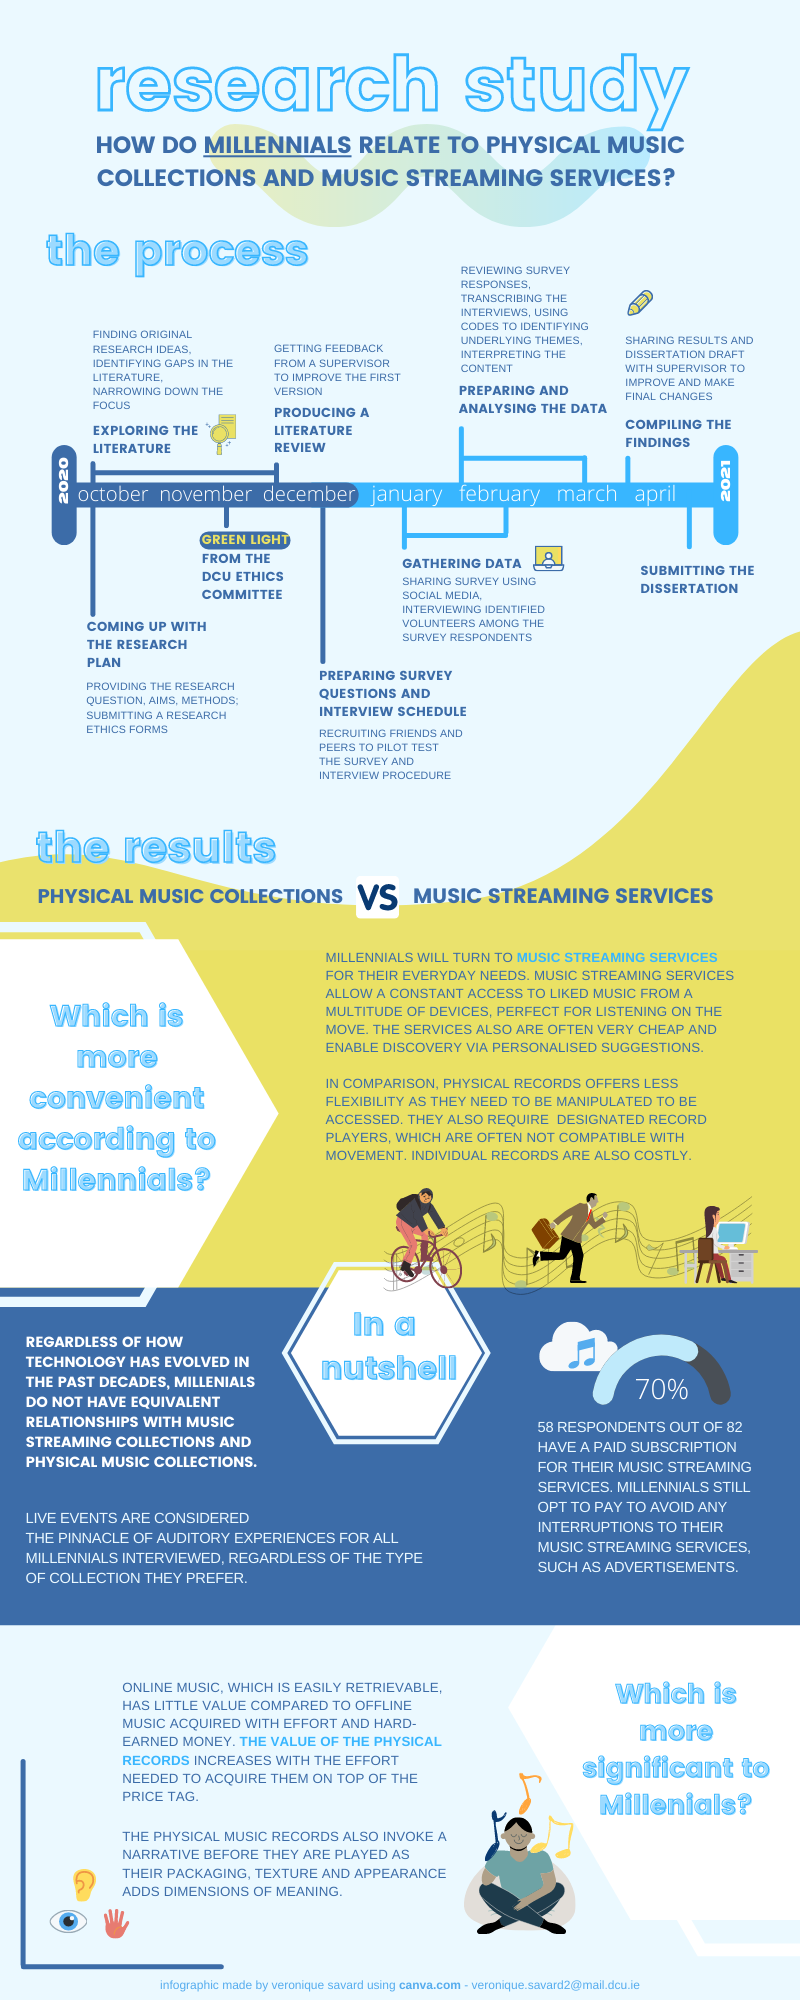
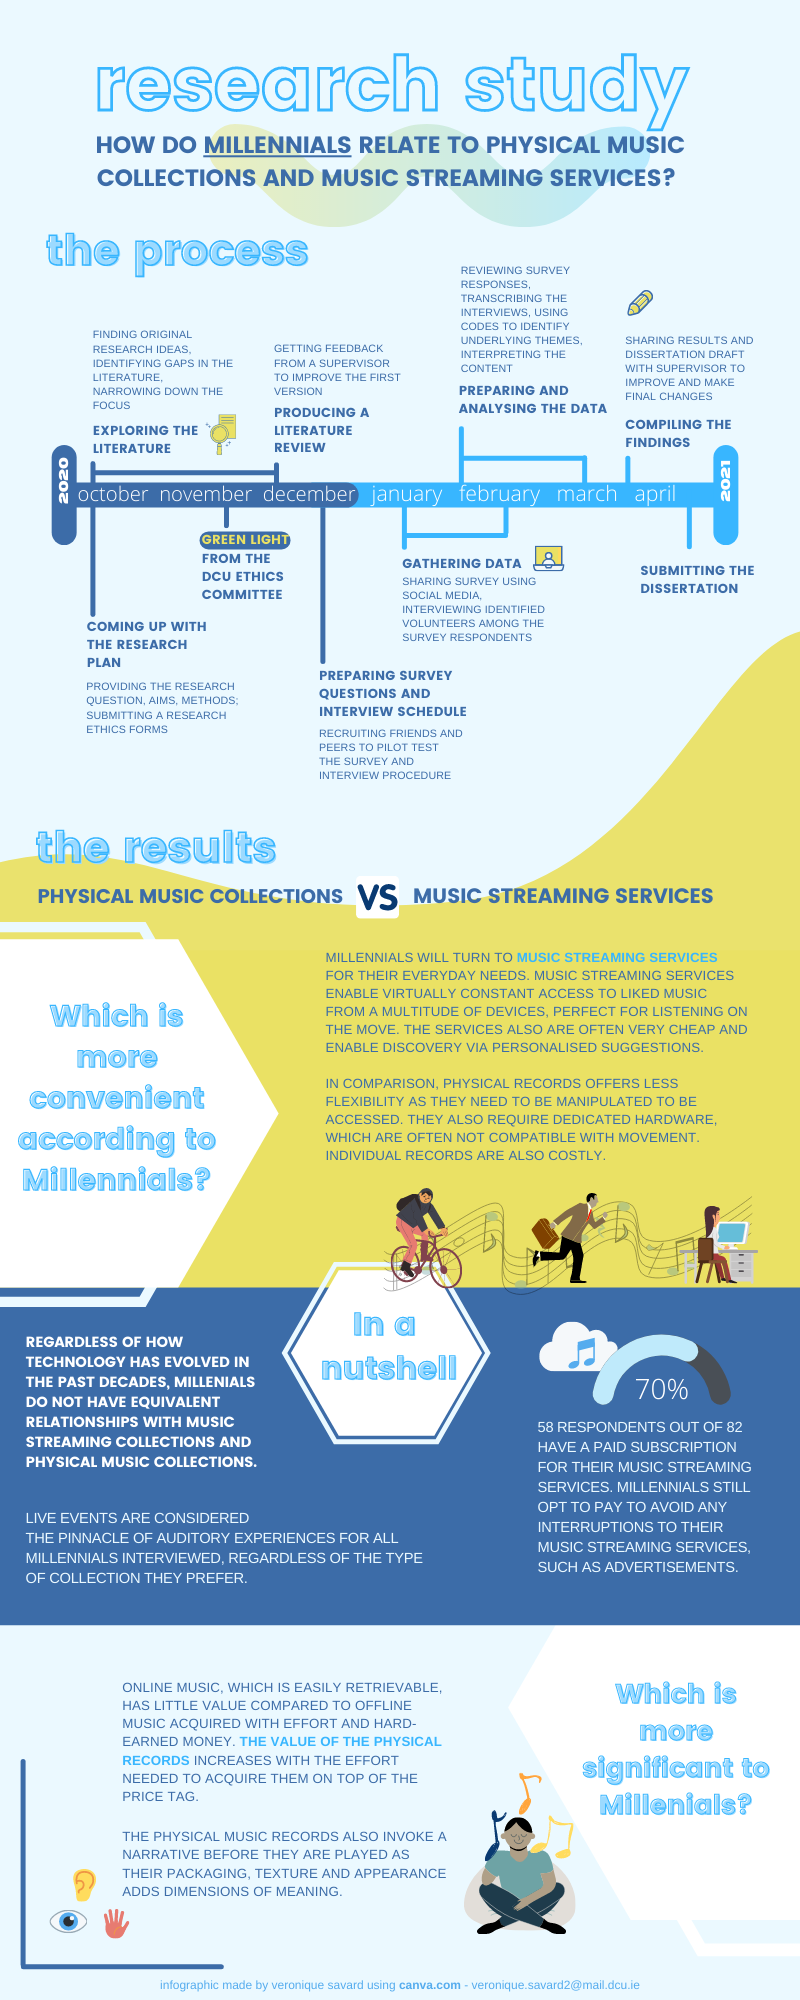
inforgraphic and bibliography

Changed region(s): [[0.4062, 0.496, 0.9375, 0.527], [0.4062, 0.558, 0.875, 0.589]]

diff --git a/content/april/2021-04-23-bibliography.md b/content/april/2021-04-23-bibliography.md
@@ -1,0 +1,163 @@
+---
+date: 2021-04-23
+title: "Bibliography"
+cover: "https://unsplash.it/1152/300/?random?SuperLong"
+categories: 
+    - Dissertation
+tags:
+    - draft
+---
+
+# Bibliography
+
+Attride-Stirling, J. (2001) &#39;Thematic networks: An analytic tool for qualitative research&#39;. _Qualitative Research_, 1(3), 385-405.
+
+Azam, R., Danish, M. and Akbar, S. (2012) &#39;Consumption Style among Young Adults toward Their Shopping Behavior: An Empirical Study in Pakistan&#39;. _Business and Management Research_, _1_. Available at: https://doi.org/10.5430/bmr.v1n4p109 (Accessed: 1 April 2021)
+
+Barbour, R.(2014) Analysis: Processing, Coding and Interrogating Data. In: _Introducing Qualitative Research: A Student&#39;s Guide_, Second Edition ed. 55 City Road, London: SAGE Publications, Inc. pp. 255-274. Available at: http://www.doi.org/10.4135/9781526485045 (Accessed: 21 March 2021)
+
+Baskerville, R. (2011) &#39;Individual information systems as research&#39;. European Journal of Information Systems. Vo. 20: pp.251-254.
+
+Beagrie, N. (2006) &#39;Digital Curation for Science, Digital Libraries, and Individuals&#39;. International Journal of Digital Curation, 1. Pp. 3-16. ISSN 17468256, 1. Available at: https://doi.org/10.2218/ijdc.v1i1.2 (Accessed: 22 March 2021)
+
+Belk, R. W. (1988) &#39;Possessions and the Extended Self&#39;. _Journal of Consumer Research_, 15(2), pp.139-168.
+
+Bell, D.S. (2009), &quot;The Sage Encyclopedia of Qualitative Research Methods&quot;, Reference Reviews, Vol. 23 No. 8, pp. 24-25. https://doi.org/10.1108/09504120911003302
+
+Bell, J. and Waters, S (2014) _Doing Your Research Project: A Guide for First-Time Researchers._ McGraw-Hill Education, Milton Keynes. Available at: ProQuest Ebook Central. (Accessed: 2 November 2020)
+
+Bigi, A., Corvi, E. and G., N. (2007) &#39;The European Millennials Versus the U.S. Millennials: Similarities and Differences&#39;. _Business Management Department, Brescia University, n. 68_.
+
+Braun, V. and Clarke, V. (2006) Using thematic analysis in psychology. _Qualitative Research in Psychology, 3_(2), pp.77–101. Available at: https://doi.org/10.1191/1478088706qp063oa(Accessed: 2 November 2020)
+
+Brown, B. and Sellen, A. (2006) &#39;Sharing and Listening to Music&#39;. In K. O&#39;Hara and B. Brown, eds., _Consuming Music Together: Social and Collaborative Aspects of Music Consumption Technologies_. Springer-Verlag, Berlin/Heidelberg, pp.37–56.
+
+Carroll, J. and Reich, B. H. (2017) Technology Portfolios: How Individuals Manage Multiple Digital Technologies. _SIGMIS Database_, _48_(1), 75–92. Available at: https://doi.org/10.1145/3051473.3051478 (Accessed: 29 March 2021)
+
+Cheng, Z.et al.. (2017) &#39;Exploring user-specific information in music retrieval&#39;. _SIGIR 2017 - Proceedings of the 40th International ACM SIGIR Conference on Research and Development in Information Retrieval_, pp.655–664. Available at: https://doi.org/10.1145/3077136.3080772 (Accessed: 2 March 2021)
+
+Csikszentmihalyi, M. and Rochberg-Halton, E. (1981) _The Meaning of Things: Domestic Symbols and the Self_. Cambridge: Cambridge University Press. (n.d.)
+
+Cockrill, A., Sullivan, M. and Norbury, H. L. (2011) Music consumption: Lifestyle choice or addiction. _Journal of Retailing and Consumer Services_, _18_(2), 160–166. Available at: https://doi.org/https://doi.org/10.1016/j.jretconser.2010.12.003 (Accessed: 2 March 2021)
+
+Danckwerts, S. and Kenning, P. (2019) &#39;It&#39;s MY Service, it&#39;s MY Music&#39;: The role of psychological ownership in music streaming consumption. _Psychology &amp; Marketing_, _36_(9), 803–816. Available at:https://doi.org/https://doi.org/10.1002/mar.21213 (Accessed: 9 February 2021)
+
+Fereday, J. and Muir-Cochrane, E. (2006) Demonstrating rigor using thematic analysis: A hybrid approach of inductive and deductive coding and theme development. _International Journal of Qualitative Methods_, 5(1), 1-11
+
+Giles, D. C., Pietrzykowski, S. and Clark, K. E. (2007) The psychological meaning of personal record collections and the impact of changing technological forms. _Journal of Economic Psychology_, _28_(4), 429–443. Available at: https://doi.org/https://doi.org/10.1016/j.joep.2006.08.002 (Accessed: 11 February 2021)
+
+Golsteijn, C., Van Den Hoven, E., Frohlich, D. and Sellen, A. (2012) &#39;Towards a more cherishable digital object&#39;. _Proceedings of the Designing Interactive Systems Conference_ DIS &#39;12, 655–664. Available at: https://doi.org/10.1145/2317956.2318054 (Accessed: 2 November 2020)
+
+Guerzoni, M. and Nuccio, M. (2014) Music consumption at the dawn of the music industry: the rise of a cultural fad. _Journal of Cultural Economics_, _38_(2), 145–171. Available at: https://doi.org/10.1007/s10824-013-9205-y (Accessed: 21 February 2021)
+
+Greengard, S.(2012) &#39;Digitally possessed&#39;. _Communications of the ACM 55_ (5), pp.14–16. Available at: https://doi.org/10.1145/2160718.2160725 (Accessed: 10 February 2021)
+
+Hagen, A. N. (2015) The Playlist Experience: Personal Playlists in Music Streaming Services. _Popular Music and Society_, _38_(5), pp.625–645. Available at: https://doi.org/10.1080/03007766.2015.1021174 (Accessed: 11 February 2021)
+
+Hartman, J. L. and McCambridge, J. (2011) &#39;Optimizing Millennials&#39; Communication Styles&#39;, _Business Communication Quarterly_, 74(1), pp. 22–44. doi: 10.1177/1080569910395564.
+
+Holbrook, M. B. (2000) The Millennial Consumer in the Texts of Our Times: Experience and Entertainment. Journal of Macromarketing, 20(2), pp. 178–192. Available at: http://doi.org/10.1177/0276146700202008 (Accessed: 19 December 2020)
+
+Hupfeld, A., Sellen, A., O&#39;Hara, K., &amp; Rodden, T. (2013) _Leisure-Based Reading and the Place of E-Books in Everyday Life_ (Vol. 8118). Available at: https://doi.org/10.1007/978-3-642-40480-1\_1 (Accessed: 11 February 2021)
+
+Ito, M. et al. (2009) _Hanging Out, Messing Around, Geeking Out: Living and Learning with New Media_. The MIT Press. pp. 464.
+
+Iqbal, M. (2020)_Spotify Usage And Revenue Statistics (2020)_ Business of Apps. Available at: https://www.businessofapps.com/data/spotify-statistics (Accessed: 30 November 2021)
+
+Jung, H. et al. (2011) &#39;How Deep Is Your Love: Deep Narratives of Ensoulment and Heirloom Status&#39;. _International Journal of Design_ 5(1), pp.59-71. Available at: [http://www.ijdesign.org/index.php/IJDesign/article/view/854/329](http://www.ijdesign.org/index.php/IJDesign/article/view/854/329) (Accessed: 3 November 2020)
+
+Kibby, M. (2009) COLLECT YOURSELF. _Information, Communication &amp; Society_, _12_(3), 428–443. Available at: https://doi.org/10.1080/13691180802660644
+
+Kirk, D. S. and Sellen, A. (2010) &#39;On human remains: Values and practice in the home archiving of cherished objects&#39;. _ACM Transactions on Computer-Human Interaction_, _17_(3) Available at: https://doi.org/10.1145/1806923.1806924 (Accessed: 3 November 2020)
+
+Kleine, S. and Baker, S. (2004) An Integrative Review of Material Possession Attachment. _Academy of Marketing Science Review_, _1_.
+
+Kumar, N. and Parikh, T. S. (2013) &#39;Mobiles, Music, and Materiality&#39;. _Proceedings of the SIGCHI Conference on Human Factors in Computing Systems_, pp. 2863–2872. Available at: https://doi.org/10.1145/2470654.2481396 (Accessed: 5 November 2020)
+
+Kushner, S. (2019) Collecting and media change, or: Listening to Phish via app. _Convergence_, _26_(4), 969–989. Available at: https://doi.org/10.1177/1354856519838741 (Accessed: 5 November 2020)
+
+Krause, A. and North, A. (2016)Music listening in everyday life: Devices, selection methods, and digital technology. _Psychology of Music_, _44_, 129–147. Available at: https://doi.org/10.1177/0305735614559065 (Accessed: 5 November 2020)
+
+Lee, D. et al. (2011) Understanding Music Sharing Behavior on Social Network Services. _Online Information Review_, _35_. Available at: https://doi.org/10.1108/14684521111176462
+
+Magaudda, P. (2011) &#39;When materiality &quot;bites back&quot;: Digital music consumption practices in the age of dematerialization&#39;. _Journal of Consumer Culture_, _11_(1), pp. 15–36. Available at: https://doi.org/10.1177/1469540510390499 (Accessed: 5 November 2020)
+
+Mäntymäki, M. and Islam, A. K. M. N. (2015) &#39;Gratifications from using freemium music streaming services: Differences between basic and premium users&#39;. ICIS
+
+Marston, H.R. (2019) &#39;Millennials and ICT—Findings from the Technology 4 Young Adults (T4YA) Project: An Exploratory Study&#39;. _Societies_. 9 (4) pp. 80. Available at: http://dx.doi.org/10.3390/soc9040080. (Accessed: 5 November 2020)
+
+McGrath, C., Palmgren, P. J. and Liljedahl, M. (2019). Twelve tips for conducting qualitative research interviews. _Medical Teacher_, _41_(9), 1002–1006. Available at: https://doi.org/10.1080/0142159X.2018.1497149 (Accessed: 5 November 2020)
+
+McIntyre, C. (2011) News from somewhere: The poetics of Baby Boomer and Generation Y music consumers in tracking a retail revolution. _Journal of Retailing and Consumer Services_, _18_(2), 141–151. Available at: https://doi.org/https://doi.org/10.1016/j.jretconser.2010.12.006
+
+Miller, D. (1987) Material Culture and Mass Consumption. _Journal of Design History_, _1_(2), pp.150–151. Available at: https://doi.org/10.1093/jdh/1.2.150 (Accessed: 5 November 2020)
+
+Molteni, L. and Ordanini, A. (2003) Consumption patterns, digital technology and music downloading. _Long Range Planning_, 36(4), pp. 389-406. doi:10.1016/S0024-6301(03)00073-6
+
+Ng, E. S., Schweitzer, L. and Lyons, S. T. (2010) New generation, great expectations: A field study of the millennial generation. _Journal of Business and Psychology_, 25(2), pp. 281-292.
+
+Ng, J., and Yew, J. (2017) &#39;Why download when you can stream? The experience of collecting music in the streaming age&#39;. _ACM International Conference Proceeding Series, Part F129310_, pp. 28–33. Available at: [https://doi.org/10.1145/3077343.3077346](https://doi.org/10.1145/3077343.3077346) (Accessed: 5 November 2020)
+
+Nguyen, G., Dejean, S. and Moreau, F. (2014) On the complementarity between online and offline music consumption: the case of free streaming. _Journal of Cultural Economics_, _38_(4), 315–330. Available at: https://econpapers.repec.org/RePEc:kap:jculte:v:38:y:2014:i:4:p:315-330
+
+Odom, W. et al (2009) &#39;Understanding why we preserve some things and discard others in the context of interaction design&#39;. _Conference on Human Factors in Computing Systems - Proceedings_, pp. 1053–1062. Available at: https://doi.org/10.1145/1518701.1518862 (Accessed: 5 November 2020)
+
+Odom, W., Zimmerman, J., and Forlizzi, J. (2010) Virtual Possessions. _Proceedings of the 8th ACM Conference on Designing Interactive Systems_, pp. 368–371. Available at: https://doi.org/10.1145/1858171.1858240 (Accessed: 3 November 2020)
+
+Odom W, Zimmerman J., and Forlizzi J. (2011) &#39;Teenagers and Their Virtual Possessions: Design Opportunities and Issues&#39;. _Proc. CHI 2011_, _ACM Press_, pp.1491–1500.
+
+Petrelli, D. and Whittaker, S. (2010) &#39;Family memories in the home: contrasting physical and digital mementos&#39;. _Personal Ubiquitous Computing_ 14(2),pp.153-169.
+
+Petrelli, D., Whittaker, S., and Brockmeier, J. (2008) &#39;AutoTopography: what can physical mementos tell us about digital memories?&#39; _In Proc. CHI 2008, ACM Press_, pp. 53-62.
+
+Power, E. (2020) Spotify reveals Ireland&#39;s most-streamed artists in 2020. _Irish Times_, Available at: https://www.irishtimes.com/culture/music/spotify-reveals-ireland-s-most-streamed-artists-in-2020-1.4423853 (Accessed: 11 January 2021)
+
+Prensky, M. (2001) Digital Natives, Digital Immigrants Part 2: Do They Really Think Differently? _On the Horizon_, _9_(6), 1–6. Available at: https://doi.org/10.1108/10748120110424843 (Accessed: 3 November 2020)
+
+Pringle, D. (2019) Europe&#39;s Well-Connected Consumers. _Commun. ACM_, _62_(4), 36. Available at: https://doi.org/10.1145/3309921 (Accessed: 3 November 2020)
+
+Rook, D. W. (1985) The Ritual Dimension of Consumer Behavior. _Journal of Consumer Research_, _12_(3), 251–264. Available at: http://www.jstor.org/stable/254372
+
+Saldana, P. H. (2016) _Differences in How Boomers and Millennials Experience Listening to Recorded Music_. 10.15760/honors.309
+
+Schaeffer, D. M., Knott, C. and Tichenor, C. (2017) Millenials in Our Midst: Panel Discussion. _J. Comput. Sci. Coll._, _32_(3), 37–38.
+
+Serazio, M. (2015) Selling (Digital) Millennials: The Social Construction and Technological Bias of a Consumer Generation. _Television &amp; New Media_, _16_(7), 599–615. Available at: https://doi.org/10.1177/1527476413491015 (Accessed: 5 November 2020)
+
+Sesigür, O. (2020) How to approach collecting music on streaming services. _Interactions: Studies in Communication and Culture_, _11_, pp.65–74. Available at: https://doi.org/10.1386/iscc\_00006\_1 (Accessed: 25 November 2020)
+
+Sharp, Helen, et al. (2019_) Interaction Design: Beyond Human-Computer Interaction_. 5th ed. Newark: John Wiley and Sons, Incorporated. http://ebookcentral.proquest.com/lib/dcu/detail.action?docID=5746446 (Accessed: 28 November 2020)
+
+Shukla, R. and Stewart, R. (2017) Metronome Music Time Capsule: Rematerialising Music Consumption and Exchange. _Proceedings of the 12th International Audio Mostly Conference on Augmented and Participatory Sound and Music Experiences_. Available at: https://doi.org/10.1145/3123514.3123548(Accessed: 5 November 2020)
+
+Siles, I. et al. (2019) &#39;Genres as Social Affect: Cultivating Moods and Emotions through Playlists on Spotify&#39;. _Social Media + Society_, _5_(2), 2056305119847514. Available at: https://doi.org/10.1177/2056305119847514 (Accessed: 3 November 2020)
+
+Sinclair, G. and Green, T. (2015) Download or stream? Steal or buy? Developing a typology of today&#39;s music consumer. _Journal of Consumer Behaviour_, _15_. Available at: https://doi.org/10.1002/cb.1526 (Accessed: 5 November 2020)
+
+Spivack, S and al. (2019) Who remembers the Beatles? The collective memory for popular music. _PLOS ONE_, _14_, e0210066. Available at: https://doi.org/10.1371/journal.pone.0210066(Accessed: 5 November 2020)
+
+Spotify (2021) _How to Sort Your Favorite Songs With Spotify&#39;s New Genre and Mood Filters — Spotify_. Available at: https://newsroom.spotify.com/2021-02-25/how-to-sort-your-favorite-songs-with-spotifys-new-genre-and-mood-filters/ (Accessed: 7 March 2021)
+
+Statista (2020) _Share Of Music Streaming Subscribers Worldwide In 2019, By Company_. https://www.statista.com/statistics/653926/music-streaming-service-subscriber-share (Accessed: 2 January 2021)
+
+Taherdoost, H. (2016) Sampling Methods in Research Methodology; How to Choose a Sampling Technique for Research. _International Journal of Academic Research in Management_, _5_, 18–27. https://doi.org/10.2139/ssrn.3205035
+
+The United States Census Bureau (2015) _Millennials Outnumber Baby Boomers and Are Far More Diverse_. Available at: https://www.census.gov/newsroom/press-releases/2015/cb15-113.html (Accessed: 5 November 2020)
+
+Toups, Z. et al. (2016) &#39;The collecting itself feels good&#39;: Towards collection interfaces for digital game objects&#39;. _CHI PLAY 2016 - Proceedings of the 2016 Annual Symposium on Computer-Human Interaction in Play_, 276–290. Available at: https://doi.org/10.1145/2967934.2968088 (Accessed: 5 November 2020)
+
+Uddin, I. (2021) _Streaming or Downloading: Which Is the Best Use of Your Mobile Data?_. Lifehack. Available at: \&lt;https://www.lifehack.org/536701/streaming-downloading-which-the-best-use-your-mobile-data\&gt; (Accessed: 5 February 2021)
+
+Varnalis-Weigle, Anastasia S. (2016) &#39;A Comparative Study of User Experience between Physical Objects and Their Digital Surrogates,&#39; _Journal of Contemporary Archival Studies_: Vol. 3, Article 3. Available at: https://elischolar.library.yale.edu/jcas/vol3/iss1/3 (Accessed: 10 November 2020)
+
+Vlachos, P. and Vrechopoulos, A. (2004). &#39;Emerging Customer Trends towards Mobile Music Services&#39;. _Proceedings of the 6th International Conference on Electronic Commerce_, 566–574. Available at: https://doi.org/10.1145/1052220.1052292 (Accessed: 10 November 2020)
+
+Wirfs-Brock, J., Mennicken, S. and Thom, J. (2020) &#39;Giving Voice to Silent Data: Designing with Personal Music Listening History&#39;. _Conference on Human Factors in Computing Systems - Proceedings_. Available at: https://doi.org/10.1145/3313831.3376493 (Accessed: 13 November 2020)
+
+Wobbrock, J. (2014) &#39;How Millennials Require Us to Design the Technologies of Tomorrow&#39;. Available at: https://www.wired.com/insights/2014/09/millennials-design-technologies/ (Accessed: 10 November 2020)
+
+Wolff, A. and Mulholland, P. (2013) &#39;Curation, Curation, Curation&#39;. Available at: http://www.bethkanter.org/content-curation-101/(Accessed: 13 November 2020)
+
+Xu, Y. (2015) _Globalization of Millennial&#39;s Music Consumption: A cross-national music taste study of undergraduate students in China and the U.S._ [The Ohio State University]. Available at: http://rave.ohiolink.edu/etdc/view?acc\_num=osu1420741275 (Accessed: 5 November 2020)
+
+Zhong, C., et al. (2013) Sharing the loves: Understanding the how and why of online content curation. _Proceedings of the 7th International Conference on Weblogs and Social Media, ICWSM 2013_, 659–667.
